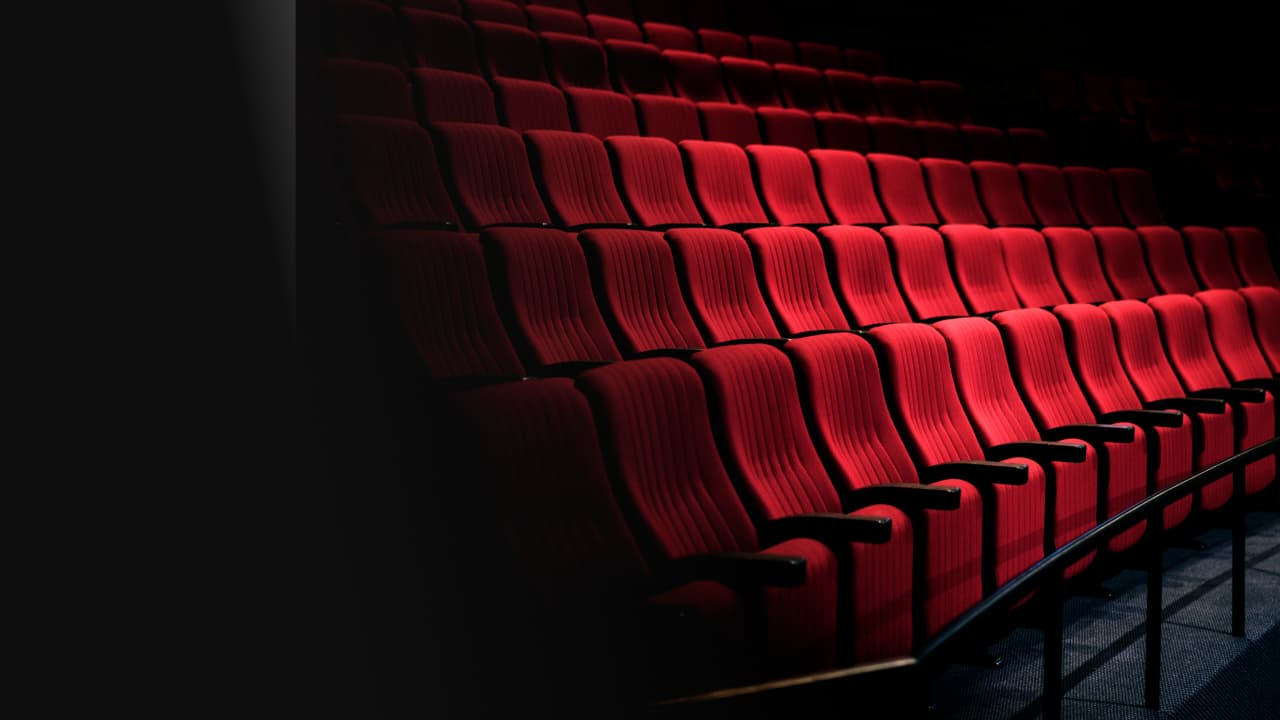
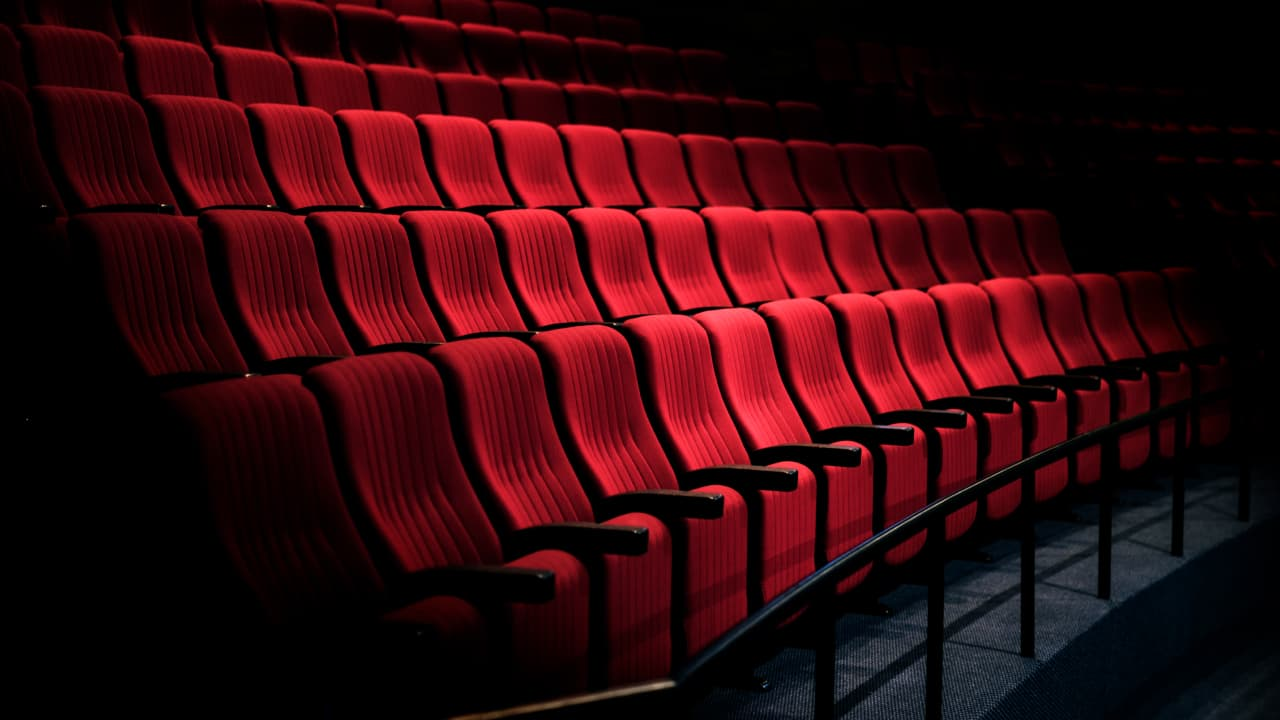
add new photo

diff --git a/src/js/libraries.js b/src/js/libraries.js
@@ -2,40 +2,60 @@ import * as basicLightbox from 'basiclightbox';
 import SimpleLightbox from 'simplelightbox';
 import Pagination from 'tui-pagination';
 
-const movieList = document.querySelector('.movie-list');
+// const movieList = document.querySelector('.movie-list');
 
-const savedMovies = JSON.parse(localStorage.getItem('movies')) || [];
+// const savedMovies = JSON.parse(localStorage.getItem('movies')) || [];
 
-function renderMovies() {
-  if (savedMovies.length > 0) {
-    const moviesHTML = savedMovies.map(movie => `<div>${movie}</div>`).join('');
-    movieList.innerHTML = moviesHTML;
+// function renderMovies() {
+//   if (savedMovies.length > 0) {
+//     const moviesHTML = savedMovies.map(movie => `<div>${movie}</div>`).join('');
+//     movieList.innerHTML = moviesHTML;
+//   } else {
+//     movieList.innerHTML = '<div class="no-movie">No movies</div>';
+//   }
+// }
+
+// renderMovies();
+
+// const addMovieForm = document.querySelector('#add-movie-form');
+// addMovieForm.addEventListener('submit', event => {
+//   event.preventDefault();
+
+//   const newMovie = addMovieForm.elements.movie.value.trim();
+//   if (newMovie !== '') {
+//     savedMovies.push(newMovie);
+//     localStorage.setItem('movies', JSON.stringify(savedMovies));
+//     renderMovies();
+//     addMovieForm.elements.movie.value = '';
+//   }
+// });
+
+// movieList.addEventListener('click', event => {
+//   const clickedElement = event.target;
+//   if (clickedElement.tagName === 'DIV') {
+//     const movieText = clickedElement.textContent;
+//     savedMovies = savedMovies.filter(movie => movie !== movieText);
+//     localStorage.setItem('movies', JSON.stringify(savedMovies));
+//     renderMovies();
+//   }
+// });
+document.addEventListener('DOMContentLoaded', function () {
+  var moviesContainer = document.getElementById('movies');
+  var movies = JSON.parse(localStorage.getItem('movies'));
+
+  if (movies && movies.length > 0) {
+    // Якщо фільми знайдені в локальному сховищі, відображаємо їх
+    for (var i = 0; i < movies.length; i++) {
+      var movie = movies[i];
+      var movieElement = document.createElement('div');
+      movieElement.textContent = movie.title;
+      moviesContainer.appendChild(movieElement);
+    }
   } else {
-    movieList.innerHTML = '<div class="no-movie">No movies</div>';
-  }
-}
-
-renderMovies();
-
-const addMovieForm = document.querySelector('#add-movie-form');
-addMovieForm.addEventListener('submit', event => {
-  event.preventDefault();
-
-  const newMovie = addMovieForm.elements.movie.value.trim();
-  if (newMovie !== '') {
-    savedMovies.push(newMovie);
-    localStorage.setItem('movies', JSON.stringify(savedMovies));
-    renderMovies();
-    addMovieForm.elements.movie.value = '';
-  }
-});
-
-movieList.addEventListener('click', event => {
-  const clickedElement = event.target;
-  if (clickedElement.tagName === 'DIV') {
-    const movieText = clickedElement.textContent;
-    savedMovies = savedMovies.filter(movie => movie !== movieText);
-    localStorage.setItem('movies', JSON.stringify(savedMovies));
-    renderMovies();
+    // Якщо фільми не знайдені, відображаємо стандартний текст та кнопку
+    var oopsText = document.createElement('p');
+    oopsText.textContent =
+      'OOPS... We are very sorry! You don’t have any movies at your library.';
+    moviesContainer.appendChild(oopsText);
   }
 });

diff --git a/src/library.html b/src/library.html
@@ -116,9 +116,11 @@
         </div>
 
         <div class="library__error-message">
-          <p class="error-line">OOPS...</p>
-          <p class="error-line">We are very sorry!</p>
-          <p class="error-line">You don’t have any movies at your library.</p>
+          <p class="error-line">
+            OOPS...<br />
+            We are very sorry!<br />
+            You don’t have any movies at your library.
+          </p>
         </div>
         <div class="container-button">
           <a href="/src/catalog.html" class="search-button">Search movie</a>

diff --git a/src/sass/components/_library.scss b/src/sass/components/_library.scss
@@ -74,7 +74,11 @@
 
 .library__content {
   display: block;
-  background-image: linear-gradient(rgba(14, 14, 14, 0), rgba(14, 14, 14, 0)),
+  background-image: linear-gradient(
+      83.48deg,
+      #0e0e0e 25.78%,
+      rgba(14, 14, 14, 0) 60.07%
+    ),
     url('/src/img/hero-bg-mobile1x.jpg');
   background-repeat: no-repeat;
   background-size: cover;
